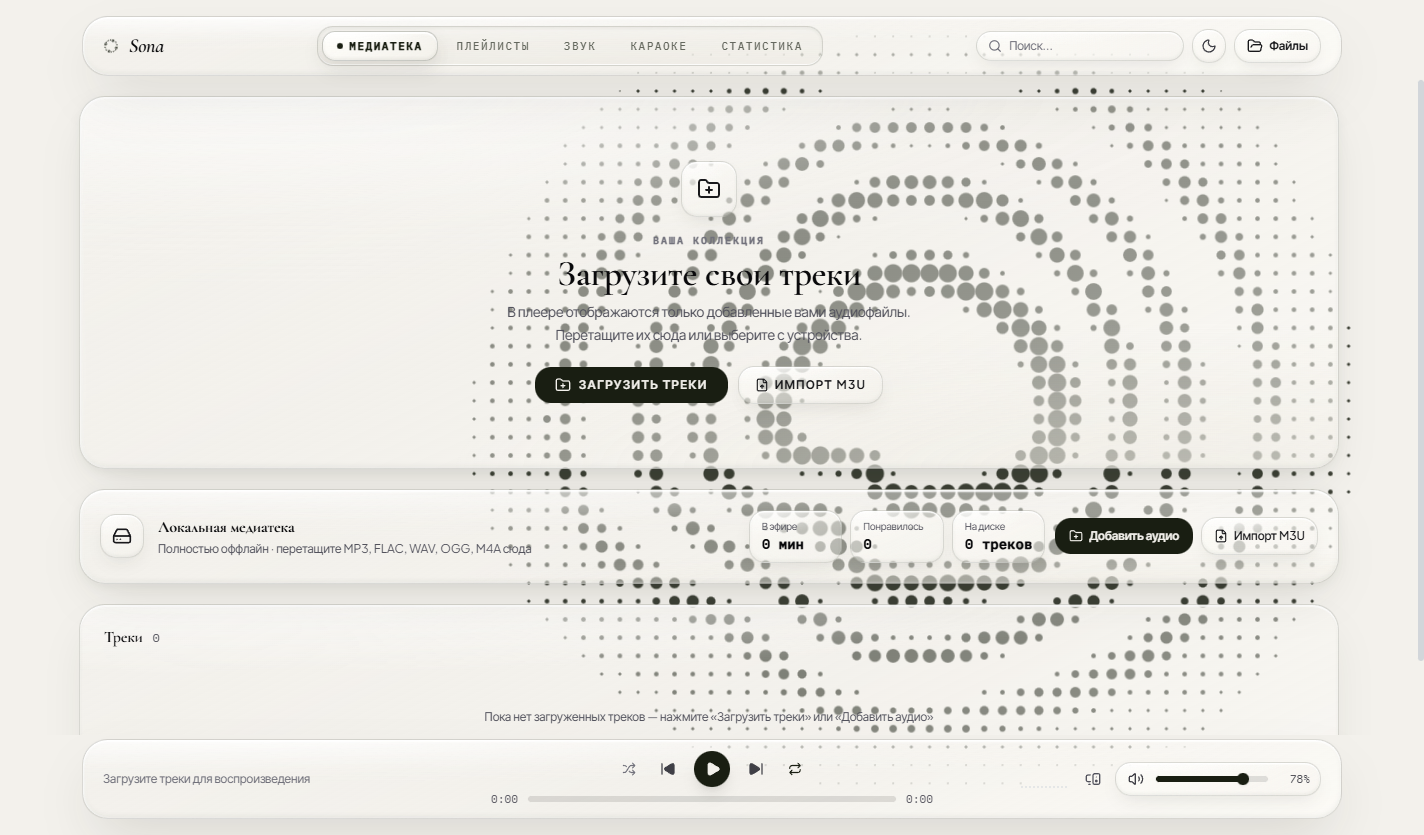
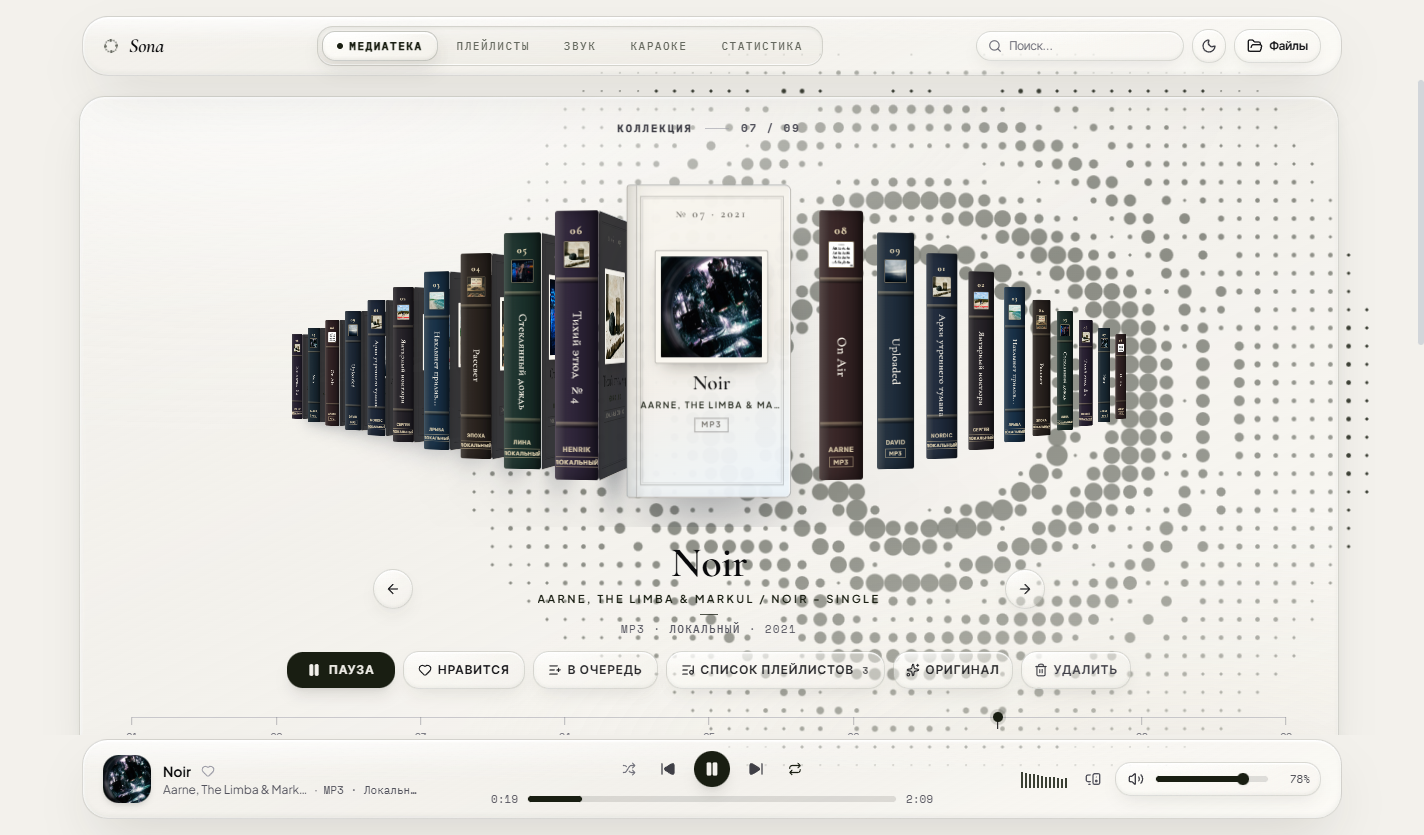
Новые скриншоты с треками, караоке и загрузкой

diff --git a/README.md b/README.md
@@ -15,15 +15,19 @@ Windows 10/11 · Electron · React 19 · Vite · Tailwind CSS
 ## ✨ Возможности
 
 - 📁 **Локальная медиатека.** Перетащите MP3, FLAC, WAV, OGG или M4A в окно — треки хранятся у вас, без облака и аккаунтов.
-- 🏷 **Чтение ID3-тегов.** Название, исполнитель, альбом и обложка подтягиваются из файлов.
+- 🏷 **Умные метаданные.** ID3-теги читаются из файлов, а оригинальные название, обложка, альбом и текст песни находятся автоматически.
 - 📜 **Плейлисты.** Можно создавать свои, импортировать M3U, есть автоплейлисты («Все загруженные», «Понравившиеся»).
 - 🎚 **Эквалайзер и DSP.** 10-полосный EQ с пресетами под популярные наушники (Sony WH-1000XM5, AirPods Pro 2, HD 650, DT 990 Pro…), плюс DSP-плагины: пространственная сцена, аналоговая теплота и другие.
 - 🔀 **Gapless и кроссфейд.** Треки переходят друг в друга без пауз.
-- 🎤 **Караоке-режим.** Текст песни на весь экран.
+- 🎤 **Караоке-режим.** Синхронизированный текст песни подсвечивается построчно, есть перевод текста.
 - 📊 **Статистика прослушиваний.**
 - 🌗 **Тёмная и светлая темы** с живым анимированным фоном.
 
 ## 📸 Скриншоты
+
+| Караоке с синхронным текстом | Загрузка с поиском оригинальных метаданных |
+|---|---|
+| ![Караоке](docs/screenshots/karaoke.png) | ![Загрузка треков](docs/screenshots/upload.png) |
 
 | Плейлисты | Звук и DSP |
 |---|---|
